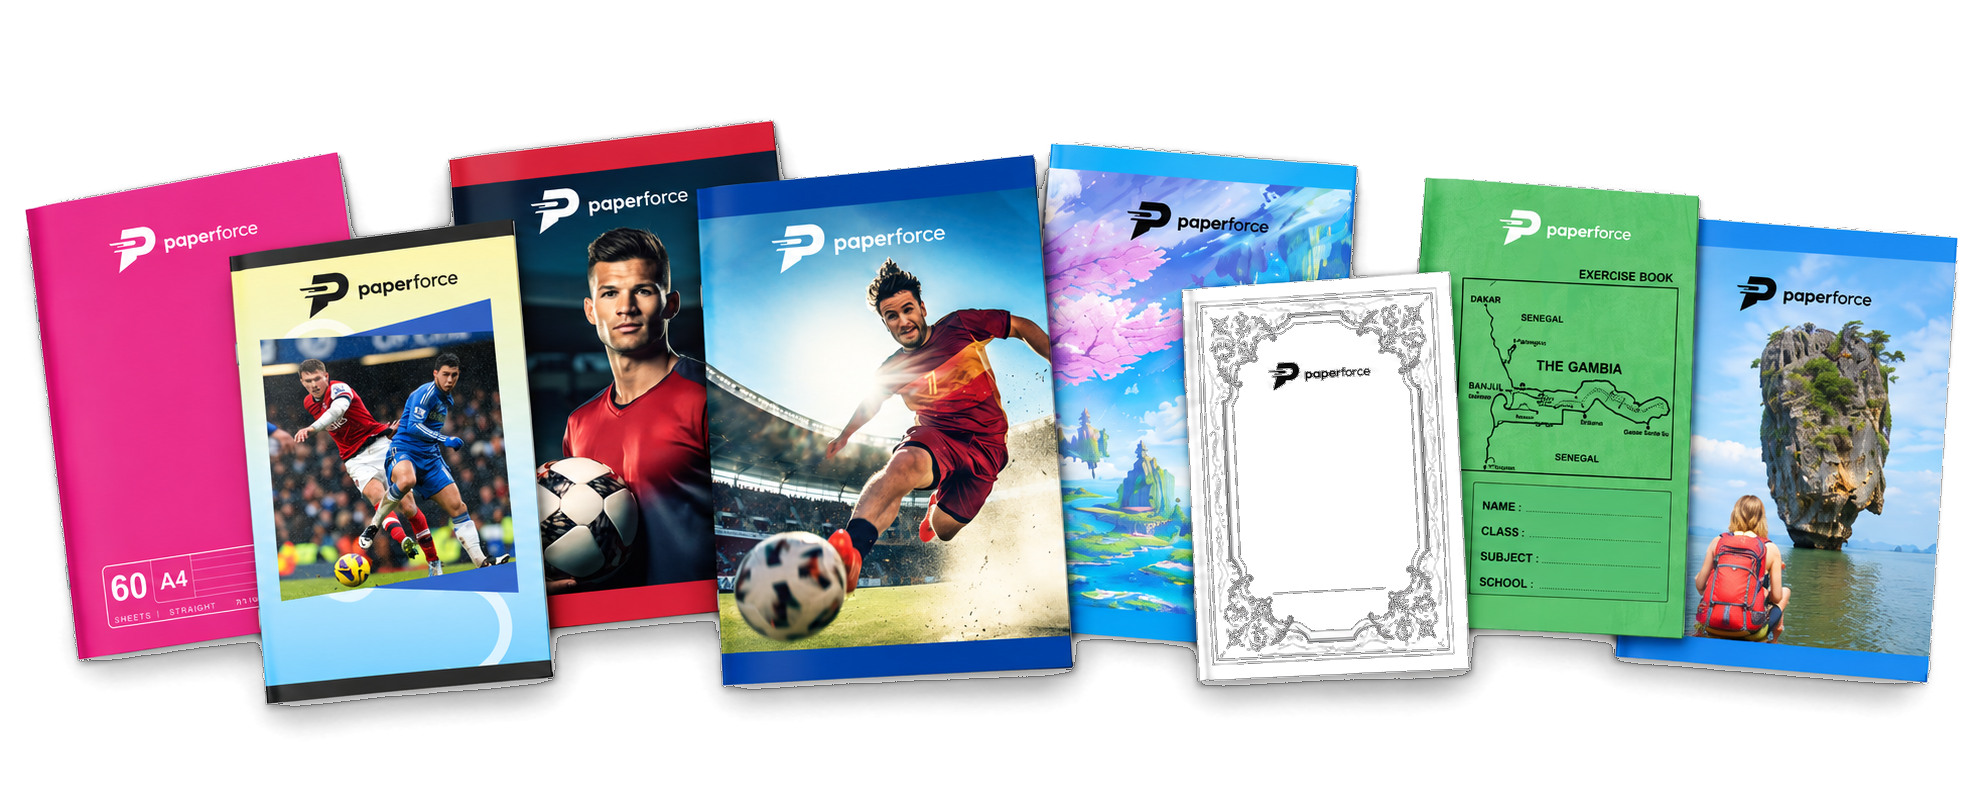
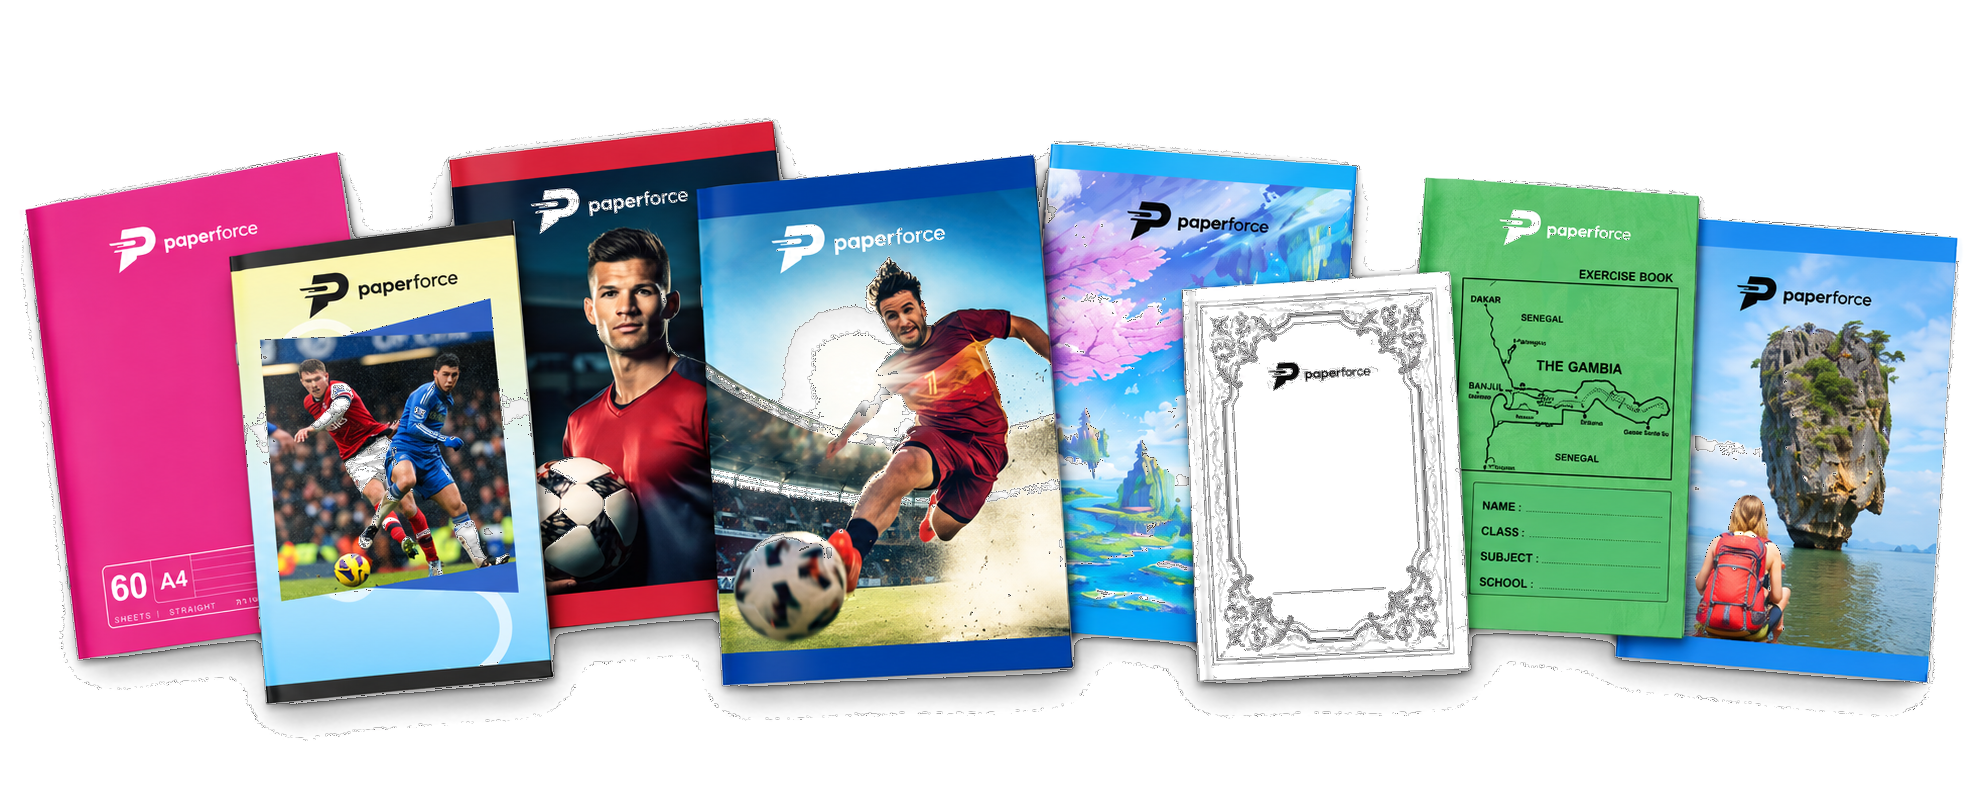
fix: Slide 6 and all slider PNGs direct seamless transparency with unoptimized loader and cache buster

diff --git a/src/components/home/hero-section.tsx b/src/components/home/hero-section.tsx
@@ -16,62 +16,62 @@ interface HeroSlide {
 const slides: HeroSlide[] = [
   {
     id: 1,
-    image: "/Homepage Slider/IMG1.png",
+    image: "/Homepage Slider/IMG1.png?v=3",
     alt: "Paperforce Notebook Manufacturing & Export Collection 1",
   },
   {
     id: 2,
-    image: "/Homepage Slider/IMG2.png",
+    image: "/Homepage Slider/IMG2.png?v=3",
     alt: "Paperforce Notebook Manufacturing & Export Collection 2",
   },
   {
     id: 3,
-    image: "/Homepage Slider/IMG3.png",
+    image: "/Homepage Slider/IMG3.png?v=3",
     alt: "Paperforce Notebook Manufacturing & Export Collection 3",
   },
   {
     id: 4,
-    image: "/Homepage Slider/IMG4.png",
+    image: "/Homepage Slider/IMG4.png?v=3",
     alt: "Paperforce Notebook Manufacturing & Export Collection 4",
   },
   {
     id: 5,
-    image: "/Homepage Slider/IMG5.png",
+    image: "/Homepage Slider/IMG5.png?v=3",
     alt: "Paperforce Notebook Manufacturing & Export Collection 5",
   },
   {
     id: 6,
-    image: "/Homepage Slider/IMG6.png",
+    image: "/Homepage Slider/IMG6.png?v=3",
     alt: "Paperforce Notebook Manufacturing & Export Collection 6",
   },
   {
     id: 7,
-    image: "/Homepage Slider/IMG7.png",
+    image: "/Homepage Slider/IMG7.png?v=3",
     alt: "Paperforce Notebook Manufacturing & Export Collection 7",
   },
   {
     id: 8,
-    image: "/Homepage Slider/IMG8.png",
+    image: "/Homepage Slider/IMG8.png?v=3",
     alt: "Paperforce Notebook Manufacturing & Export Collection 8",
   },
   {
     id: 9,
-    image: "/Homepage Slider/IMG9.png",
+    image: "/Homepage Slider/IMG9.png?v=3",
     alt: "Paperforce Notebook Manufacturing & Export Collection 9",
   },
   {
     id: 10,
-    image: "/Homepage Slider/IMG10.png",
+    image: "/Homepage Slider/IMG10.png?v=3",
     alt: "Paperforce Notebook Manufacturing & Export Collection 10",
   },
   {
     id: 11,
-    image: "/Homepage Slider/IMG11.png",
+    image: "/Homepage Slider/IMG11.png?v=3",
     alt: "Paperforce Notebook Manufacturing & Export Collection 11",
   },
   {
     id: 12,
-    image: "/Homepage Slider/IMG12.png",
+    image: "/Homepage Slider/IMG12.png?v=3",
     alt: "Paperforce Notebook Manufacturing & Export Collection 12",
   },
 ];
@@ -153,6 +153,7 @@ export function HeroSection() {
               fill
               priority={current === 0 || current === 1}
               sizes="100vw"
+              unoptimized
               className="w-full h-full object-cover md:object-contain object-center pointer-events-none"
               style={{ opacity: 1 }}
             />
